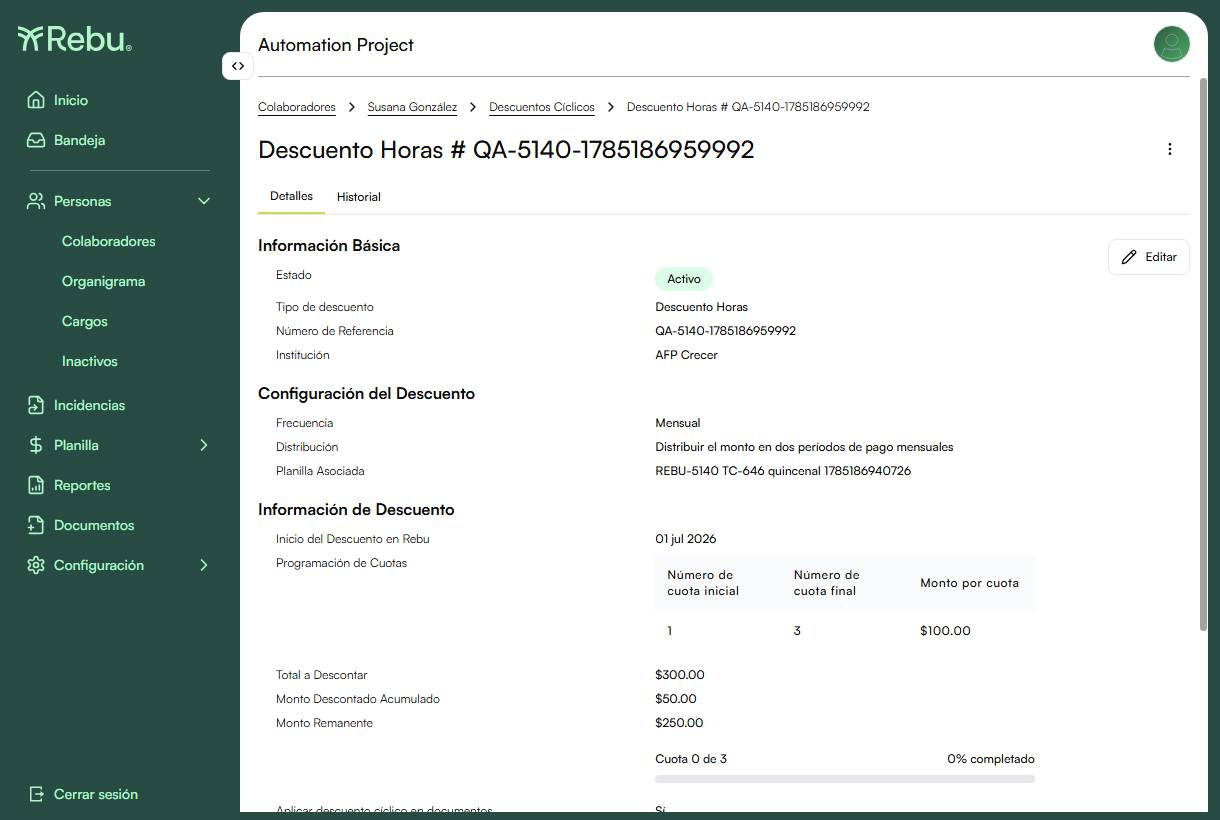
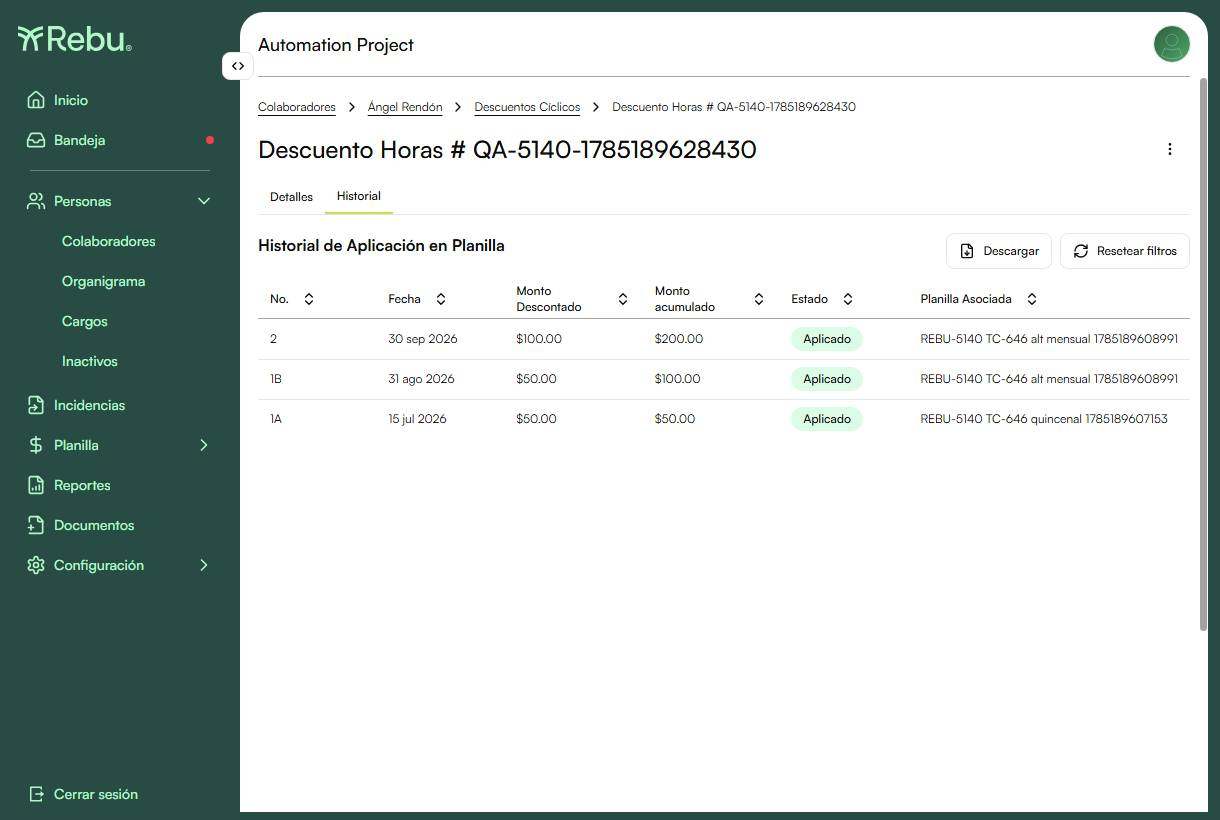
report(v15.4.0): REBU-5140 TC-PLA-646 — evidencia desde la tab Historial (1A / 1B / 2)
Reemplaza las tres capturas de la tab "Detalles" por la tab "Historial" del
registro ciclico, que es donde el producto etiqueta las particiones con nombre
propio y registra en que planilla se cobro cada una:

  1A  15 jul 2026  $50.00   acum $50.00   quincenal
  1B  31 ago 2026  $50.00   acum $100.00  mensual
  2   30 sep 2026  $100.00  acum $200.00  mensual

Una sola captura evidencia el ciclo completo y deja explicito que la cuota 1 se
abre en la quincenal (1A) y se cierra ya en la mensual (1B) — la regla 1 de
REBU-5176 — y que recien despues se cobra la cuota 2 completa.

Se conserva una segunda captura de la tab Detalles al cierre (Cuota 2 de 3,
66.67%) para el acumulado y la barra de avance.

Nuevo metodo verTabHistorial() en CiclicosDescuentosPage.

diff --git a/index.html b/index.html
@@ -171,7 +171,7 @@
 <tr class="detail-row"><td colspan="3"><table class="case-steps"><tr><th>Precondiciones</th><td>Colaborador activo $1,000 asociado a una planilla quincenal.</td></tr><tr><th>Setup</th><td>1. <code>createCyclicDistributionScenario</code> con <code>initialFrequency: 'quincenal'</code> y cíclico <code>Distributed</code> de $100, cuotas 1–3.</td></tr><tr><th>Pasos</th><td>1. Correr la Quincena 1 de julio (01→15) y leer el monto. 2. Correr la Quincena 2 (16→31) y leer el monto.</td></tr><tr><th>Resultado esperado</th><td>Q1 descuenta <strong>$50</strong> (partición A) y Q2 descuenta <strong>$50</strong> (partición B); total del mes = $100, sin duplicar ni omitir cuota.</td></tr><tr><th>Resultado obtenido</th><td>entry 1037 = <strong>$50.00</strong>, entry 1038 = <strong>$50.00</strong>, total $100.00. ✅ El refactor del motor no rompió el camino que ya funcionaba.</td></tr><tr><th>Planilla</th><td>🧾 entries <strong>1037</strong> y <strong>1038</strong> · UAT co.2 · julio 2026</td></tr><tr><th>Status</th><td><span class="badge-pass">PASS</span></td></tr></table></td></tr>
 
 <tr class="test-row" onclick="toggleDetail(this)"><td class="test-id">TC-PLA-646<div style="font-size:9px;font-weight:600;opacity:.55;margin-top:2px">REBU-5140</div></td><td><div class="test-name">Regla 1 / AC6 · Quincenal → mensual con media cuota abierta: la primera mensual cobra solo los $50 pendientes</div><div class="test-tags"><span class="tag tag-val">@api-ui</span><span class="tag tag-val">@planilla</span><span class="tag tag-edge">@edge-case</span></div></td><td class="status-cell"><span class="badge-pass">PASS</span></td></tr>
-<tr class="detail-row"><td colspan="3"><table class="case-steps"><tr><th>Precondiciones</th><td>Colaborador $1,000 en planilla quincenal con Q1 corrida y <strong>finalizada</strong> ($50 = partición 1A consolidada); una planilla mensual disponible para reasociarlo.</td></tr><tr><th>Setup</th><td>1. <code>createCyclicDistributionScenario</code> con <code>initialFrequency: 'quincenal'</code> y <code>alternateFrequency: 'mensual'</code>, cíclico <code>Distributed</code> de $100, cuotas 1–3.</td></tr><tr><th>Pasos</th><td>1. Correr Q1 julio en la quincenal y <strong>finalizarla</strong> (4 <code>changeStep</code>) → consolida la partición 1A. 2. Cambiar la Planilla Asociada a la mensual desde datos de contratación (<code>PATCH person { payrollId }</code>). 3. Correr y finalizar la primera mensual. 4. Correr y finalizar la segunda mensual.</td></tr><tr><th>Resultado esperado</th><td>La primera mensual descuenta <strong>$50</strong> (cierra la partición 1B pendiente, regla 1 de REBU-5176). La segunda, sin pendiente, descuenta <strong>$100</strong> (cuota nueva FULL, regla 2).</td></tr><tr><th>Resultado obtenido</th><td>✅ Q1 quincenal <strong>$50.00</strong> → mensual #1 <strong>$50.00</strong> → mensual #2 <strong>$100.00</strong>. El motor cierra la media cuota antes de abrir una nueva, exactamente como especifica la regla 1.<br><br>⚠ <strong>Requiere finalizar la planilla.</strong> Con un solo <code>changeStep</code> el concepto ya se ve en el detalle pero la cuota <em>no</em> se consolida, y la corrida siguiente abre cuota nueva FULL — eso produjo un falso positivo que se reportó y luego se cerró (REBU-5272).</td></tr><tr><th>Planilla</th><td>🧾 entries <strong>1062</strong> (Q1 quincenal) · <strong>1063</strong> (mensual #1) · <strong>1064</strong> (mensual #2) · UAT co.2</td></tr><tr><th>Evidencia</th><td><div style="display:flex;gap:12px;flex-wrap:wrap;padding:4px 0"><div style="flex:1;min-width:260px"><div style="font-size:10px;font-weight:700;color:#284b44;text-transform:uppercase;margin-bottom:6px">01 — Tras Q1 quincenal · Cuota 0 de 3 · 0%</div><img src="assets/v15.4.0/uat/5140/TC-PLA-646/01.jpg" style="max-width:100%;border-radius:6px;border:1px solid #d4e8d0;box-shadow:0 1px 4px rgba(0,0,0,.08)"/></div><div style="flex:1;min-width:260px"><div style="font-size:10px;font-weight:700;color:#284b44;text-transform:uppercase;margin-bottom:6px">02 — Tras mensual #1 · Cuota 1 de 3 · 33.33%</div><img src="assets/v15.4.0/uat/5140/TC-PLA-646/02.jpg" style="max-width:100%;border-radius:6px;border:1px solid #d4e8d0;box-shadow:0 1px 4px rgba(0,0,0,.08)"/></div><div style="flex:1;min-width:260px"><div style="font-size:10px;font-weight:700;color:#284b44;text-transform:uppercase;margin-bottom:6px">03 — Tras mensual #2 · Cuota 2 de 3 · 66.67%</div><img src="assets/v15.4.0/uat/5140/TC-PLA-646/03.jpg" style="max-width:100%;border-radius:6px;border:1px solid #d4e8d0;box-shadow:0 1px 4px rgba(0,0,0,.08)"/></div></div><div style="font-size:11px;color:#1e3a34;background:#f0f7ee;border-radius:4px;padding:8px 10px;margin-top:8px;line-height:1.6">Progresión del "Monto Descontado Acumulado" en el perfil: <strong>$50.00 → $100.00 → $200.00</strong>. El campo "Planilla Asociada" cambia de la quincenal a la mensual entre la 1.ª y la 2.ª captura.</div></td></tr><tr><th>Status</th><td><span class="badge-pass">PASS</span></td></tr></table></td></tr>
+<tr class="detail-row"><td colspan="3"><table class="case-steps"><tr><th>Precondiciones</th><td>Colaborador $1,000 en planilla quincenal con Q1 corrida y <strong>finalizada</strong> ($50 = partición 1A consolidada); una planilla mensual disponible para reasociarlo.</td></tr><tr><th>Setup</th><td>1. <code>createCyclicDistributionScenario</code> con <code>initialFrequency: 'quincenal'</code> y <code>alternateFrequency: 'mensual'</code>, cíclico <code>Distributed</code> de $100, cuotas 1–3.</td></tr><tr><th>Pasos</th><td>1. Correr Q1 julio en la quincenal y <strong>finalizarla</strong> (4 <code>changeStep</code>) → consolida la partición 1A. 2. Cambiar la Planilla Asociada a la mensual desde datos de contratación (<code>PATCH person { payrollId }</code>). 3. Correr y finalizar la primera mensual. 4. Correr y finalizar la segunda mensual.</td></tr><tr><th>Resultado esperado</th><td>La primera mensual descuenta <strong>$50</strong> (cierra la partición 1B pendiente, regla 1 de REBU-5176). La segunda, sin pendiente, descuenta <strong>$100</strong> (cuota nueva FULL, regla 2).</td></tr><tr><th>Resultado obtenido</th><td>✅ Q1 quincenal <strong>$50.00</strong> → mensual #1 <strong>$50.00</strong> → mensual #2 <strong>$100.00</strong>. El motor cierra la media cuota antes de abrir una nueva, exactamente como especifica la regla 1.<br><br>⚠ <strong>Requiere finalizar la planilla.</strong> Con un solo <code>changeStep</code> el concepto ya se ve en el detalle pero la cuota <em>no</em> se consolida, y la corrida siguiente abre cuota nueva FULL — eso produjo un falso positivo que se reportó y luego se cerró (REBU-5272).</td></tr><tr><th>Planilla</th><td>🧾 entries <strong>1062</strong> (Q1 quincenal) · <strong>1063</strong> (mensual #1) · <strong>1064</strong> (mensual #2) · UAT co.2</td></tr><tr><th>Evidencia</th><td><div style="padding:4px 0"><div style="font-size:10px;font-weight:700;color:#284b44;text-transform:uppercase;margin-bottom:6px">01 — Perfil › Descuentos Cíclicos › registro › tab <strong>Historial</strong></div><img src="assets/v15.4.0/uat/5140/TC-PLA-646/01.jpg" style="max-width:100%;border-radius:6px;border:1px solid #d4e8d0;box-shadow:0 1px 4px rgba(0,0,0,.08)"/><div style="font-size:11px;color:#1e3a34;background:#f0f7ee;border-radius:4px;padding:10px 12px;margin-top:8px;line-height:1.7">El "Historial de Aplicación en Planilla" etiqueta las particiones con nombre propio y registra en qué planilla se cobró cada una:<br><br><table style="border-collapse:collapse;font-size:11px"><tr style="font-weight:700"><td style="padding:2px 14px 2px 0">No.</td><td style="padding:2px 14px 2px 0">Fecha</td><td style="padding:2px 14px 2px 0">Descontado</td><td style="padding:2px 14px 2px 0">Acumulado</td><td style="padding:2px 0">Planilla</td></tr><tr><td style="padding:2px 14px 2px 0"><strong>1A</strong></td><td style="padding:2px 14px 2px 0">15 jul 2026</td><td style="padding:2px 14px 2px 0">$50.00</td><td style="padding:2px 14px 2px 0">$50.00</td><td style="padding:2px 0">quincenal</td></tr><tr><td style="padding:2px 14px 2px 0"><strong>1B</strong></td><td style="padding:2px 14px 2px 0">31 ago 2026</td><td style="padding:2px 14px 2px 0">$50.00</td><td style="padding:2px 14px 2px 0">$100.00</td><td style="padding:2px 0">mensual</td></tr><tr><td style="padding:2px 14px 2px 0"><strong>2</strong></td><td style="padding:2px 14px 2px 0">30 sep 2026</td><td style="padding:2px 14px 2px 0">$100.00</td><td style="padding:2px 14px 2px 0">$200.00</td><td style="padding:2px 0">mensual</td></tr></table><br>La cuota 1 se abre en la quincenal con la partición <strong>1A</strong> y se cierra ya en la mensual con <strong>1B</strong> — la regla 1 en acción. Recién entonces la cuota <strong>2</strong> se cobra completa.</div></div><div style="margin-top:14px"><div style="font-size:10px;font-weight:700;color:#284b44;text-transform:uppercase;margin-bottom:6px">02 — Tab Detalles al cierre · Cuota 2 de 3 · 66.67%</div><img src="assets/v15.4.0/uat/5140/TC-PLA-646/02.jpg" style="max-width:100%;border-radius:6px;border:1px solid #d4e8d0;box-shadow:0 1px 4px rgba(0,0,0,.08)"/></div></td></tr><tr><th>Status</th><td><span class="badge-pass">PASS</span></td></tr></table></td></tr>
 
 <tr class="test-row" onclick="toggleDetail(this)"><td class="test-id">TC-PLA-647<div style="font-size:9px;font-weight:600;opacity:.55;margin-top:2px">REBU-5140</div></td><td><div class="test-name">Edge de centavos · "Distribuir" de $100.01 en quincenal debe repartirse sin perder ni inventar centavos</div><div class="test-tags"><span class="tag tag-val">@api</span><span class="tag tag-val">@planilla</span><span class="tag tag-edge">@edge-case</span></div></td><td class="status-cell"><span class="badge-fail">FAIL</span></td></tr>
 <tr class="detail-row"><td colspan="3"><table class="case-steps"><tr><th>Precondiciones</th><td>Colaborador $1,000 en planilla quincenal.</td></tr><tr><th>Setup</th><td>1. Igual que TC-PLA-645, pero el cíclico se da de alta con <code>monthlyAmount: 100.01</code>.</td></tr><tr><th>Pasos</th><td>1. Correr Quincena 1 y registrar el monto aplicado. 2. Correr Quincena 2 y registrar el monto aplicado. 3. Verificar la suma y la cantidad de decimales de cada período.</td></tr><tr><th>Resultado esperado</th><td>La suma de ambos períodos es exactamente <strong>$100.01</strong> y ningún período muestra más de 2 decimales ni residuo de coma flotante.</td></tr><tr><th>Resultado obtenido</th><td>🔴 La suma en base de datos <strong>sí</strong> cierra en $100.01, pero cada período persiste <strong>$50.005</strong> en <code>amount</code> — tres decimales. Y la discrepancia <strong>llega al usuario</strong>: el "Monto Descontado Acumulado" del perfil muestra <strong>$100.02</strong>, porque la UI redondea cada partición a $50.01 y las suma en vez de sumar y redondear una vez. Compone a lo largo del plan: 3 cuotas serían $300.06 mostrados contra $300.03 configurados.<br><br>Con centavos <em>pares</em> el acumulado cierra exacto ($50 → $100 → $200, ver TC-PLA-646), así que el disparador es exclusivamente el residuo impar.</td></tr><tr><th>Defecto</th><td>🐞 <a href="https://rebu.atlassian.net/browse/REBU-5273" target="_blank"><strong>REBU-5273</strong></a> · <em>[BUG BE] el split 50/50 no redondea a centavos</em> · Prioridad Low (sugerido subir a Media tras confirmar que la discrepancia es visible al usuario). Pendiente de producto: ¿el centavo residual va a la primera o a la última partición? ¿Se redondea al persistir o solo al pagar?</td></tr><tr><th>Planilla</th><td>🧾 entries <strong>1065</strong> y <strong>1066</strong> · UAT co.2 · julio 2026</td></tr><tr><th>Evidencia</th><td><div style="max-width:640px"><div style="font-size:10px;font-weight:700;color:#284b44;text-transform:uppercase;margin-bottom:6px">01 — Acumulado del cíclico de $100.01 tras las dos quincenas</div><img src="assets/v15.4.0/uat/5140/TC-PLA-647/01.jpg" style="max-width:100%;border-radius:6px;border:1px solid #d4e8d0;box-shadow:0 1px 4px rgba(0,0,0,.08)"/><div style="font-size:11px;color:#5c4a1a;background:#fdf6e3;border-radius:4px;padding:8px 10px;margin-top:8px;line-height:1.5">El perfil reporta <strong>"Monto Descontado Acumulado: $100.02"</strong> para un descuento configurado en $100.01.</div></div></td></tr><tr><th>Status</th><td><span class="badge-fail">FAIL</span></td></tr></table></td></tr>
